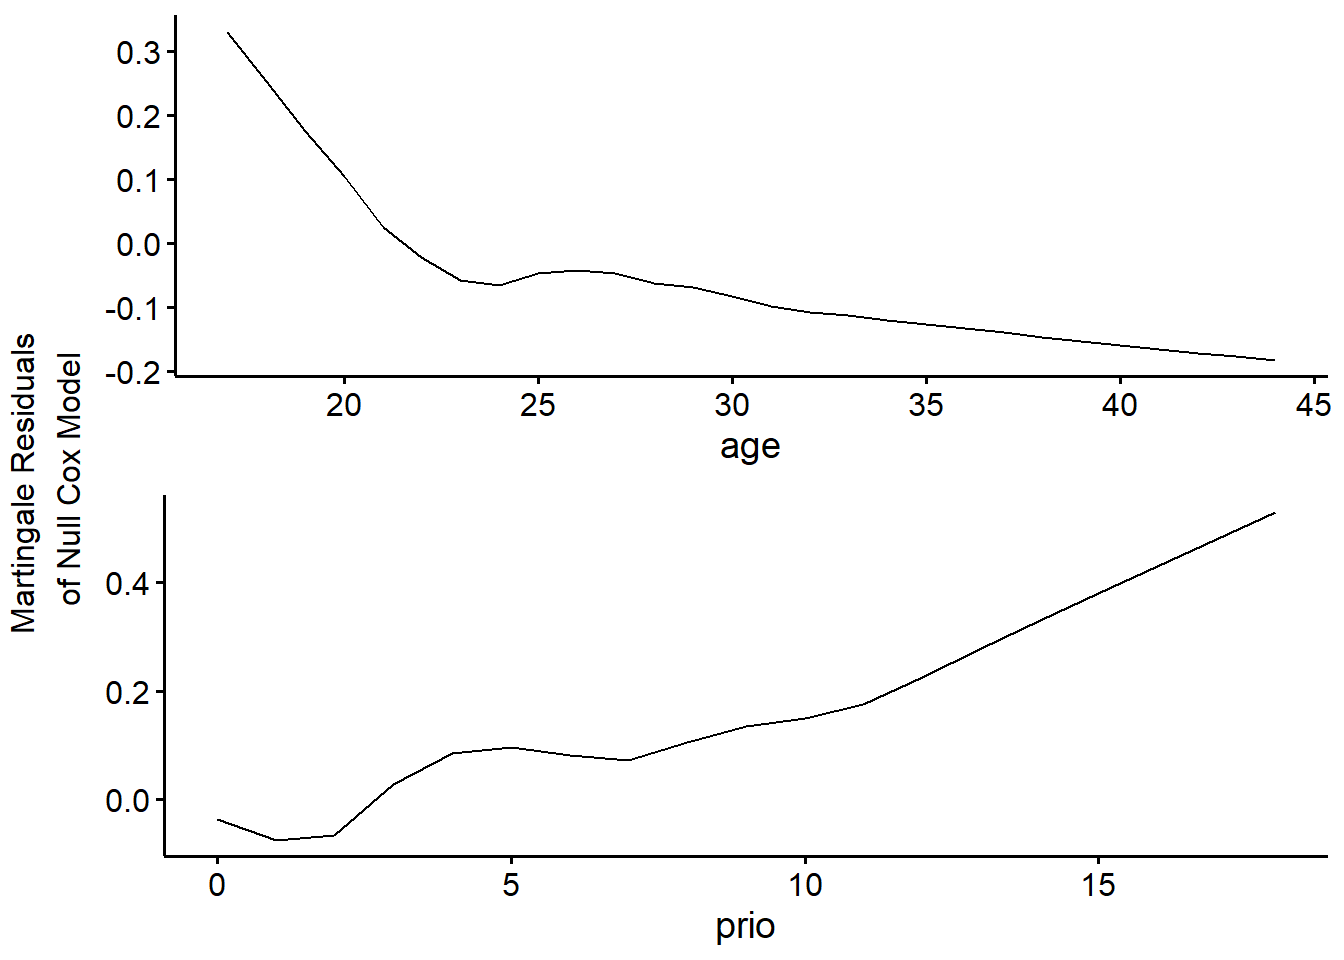
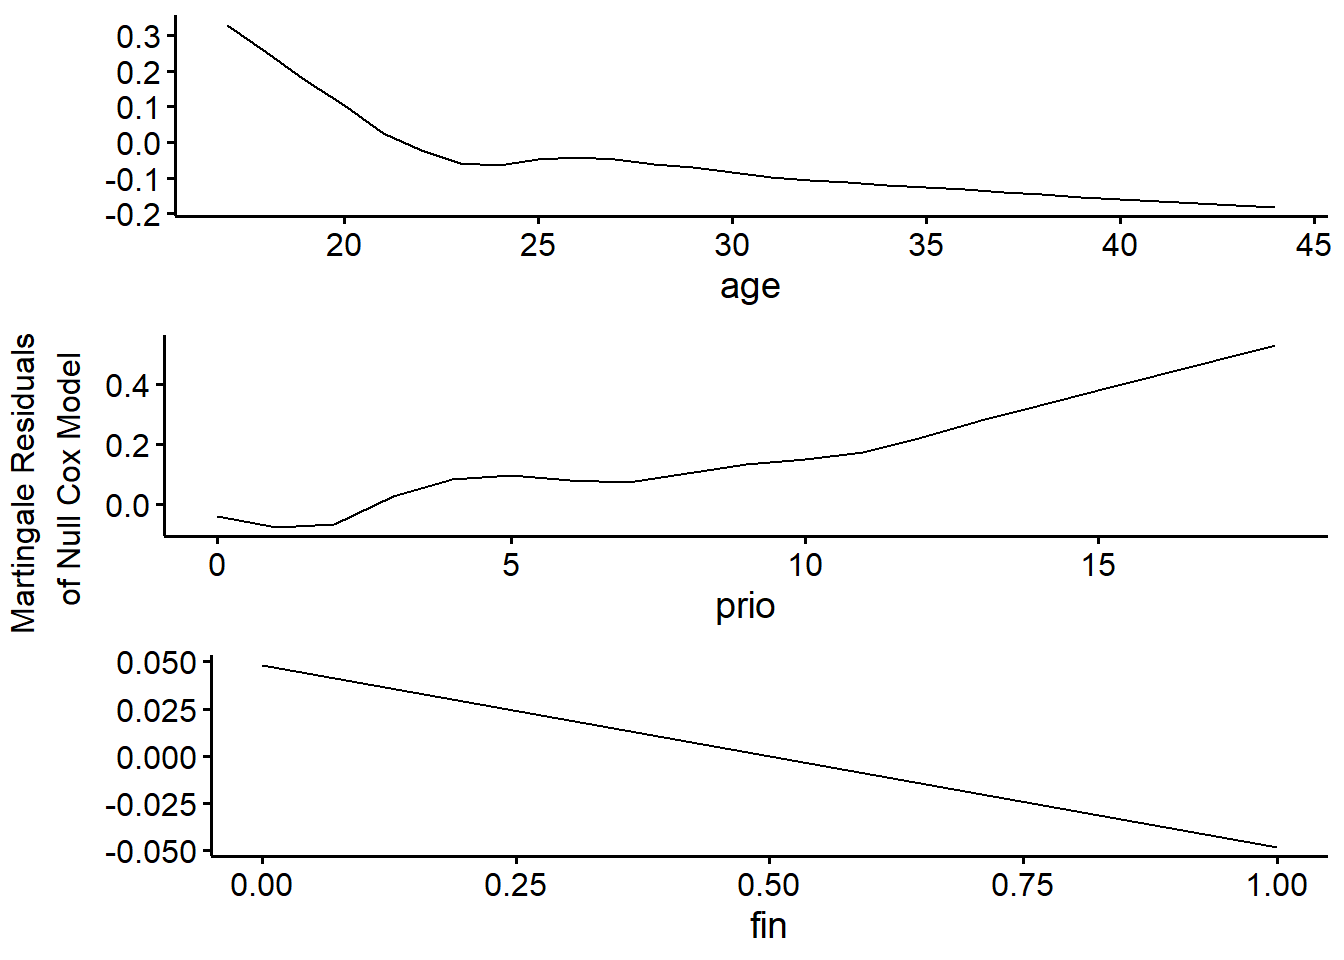
Updated Martingale residuals

diff --git a/docs/cox-survival-regression.html b/docs/cox-survival-regression.html
@@ -23,7 +23,7 @@
 <meta name="author" content="Susan Simmons" />
 
 
-<meta name="date" content="2024-10-23" />
+<meta name="date" content="2024-11-03" />
 
   <meta name="viewport" content="width=device-width, initial-scale=1" />
   <meta name="apple-mobile-web-app-capable" content="yes" />
@@ -536,7 +536,7 @@ code span.wa { color: #60a0b0; font-weight: bold; font-style: italic; } /* Warni
 ##    number of observations = 432
 ## number of events observed = 114
 ##    partial log-likelihood = -660.86
-##          time fit was run = 2024-10-23 14:02:14 UTC
+##          time fit was run = 2024-11-04 02:24:49 UTC
 ## 
 ## ---
 ##            coef exp(coef)  se(coef)  coef lower 95%  coef upper 95% exp(coef) lower 95% exp(coef) upper 95%
@@ -575,46 +575,33 @@ code span.wa { color: #60a0b0; font-weight: bold; font-style: italic; } /* Warni
 ## concordant discordant     tied.x     tied.y    tied.xy 
 ##      26736      15651        195        111          0</code></pre>
 <div class="sourceCode" id="cb29"><pre class="sourceCode r"><code class="sourceCode r"><span id="cb29-1"><a href="cox-survival-regression.html#cb29-1" tabindex="-1"></a><span class="do">## Martingale residuals...Linearity</span></span>
-<span id="cb29-2"><a href="cox-survival-regression.html#cb29-2" tabindex="-1"></a><span class="do">## ONLY fit continuous variables here!!</span></span>
-<span id="cb29-3"><a href="cox-survival-regression.html#cb29-3" tabindex="-1"></a>recid.lin <span class="ot">&lt;-</span> <span class="fu">coxph</span>(<span class="fu">Surv</span>(week, arrest) <span class="sc">~</span>  age <span class="sc">+</span> prio, <span class="at">data =</span> recid)</span>
+<span id="cb29-2"><a href="cox-survival-regression.html#cb29-2" tabindex="-1"></a></span>
+<span id="cb29-3"><a href="cox-survival-regression.html#cb29-3" tabindex="-1"></a>recid.lin <span class="ot">&lt;-</span> <span class="fu">coxph</span>(<span class="fu">Surv</span>(week, arrest) <span class="sc">~</span>  age <span class="sc">+</span> prio <span class="sc">+</span> fin, <span class="at">data =</span> recid)</span>
 <span id="cb29-4"><a href="cox-survival-regression.html#cb29-4" tabindex="-1"></a>survminer<span class="sc">::</span><span class="fu">ggcoxfunctional</span>(recid.lin,<span class="at">data=</span>recid)</span></code></pre></div>
 <p><img src="bookdownproj_files/figure-html/PH%20diagnostics-5.png" width="672" /></p>
 <div class="sourceCode" id="cb30"><pre class="sourceCode r"><code class="sourceCode r"><span id="cb30-1"><a href="cox-survival-regression.html#cb30-1" tabindex="-1"></a><span class="do">## Try transformations or can bin</span></span>
-<span id="cb30-2"><a href="cox-survival-regression.html#cb30-2" tabindex="-1"></a>recid.lin <span class="ot">&lt;-</span> <span class="fu">coxph</span>(<span class="fu">Surv</span>(week, arrest) <span class="sc">~</span>  <span class="fu">sqrt</span>(age) , <span class="at">data =</span> recid)</span>
-<span id="cb30-3"><a href="cox-survival-regression.html#cb30-3" tabindex="-1"></a>survminer<span class="sc">::</span><span class="fu">ggcoxfunctional</span>(recid.lin,<span class="at">data=</span>recid)</span></code></pre></div>
+<span id="cb30-2"><a href="cox-survival-regression.html#cb30-2" tabindex="-1"></a>recid1<span class="ot">&lt;-</span>recid <span class="sc">%&gt;%</span> <span class="fu">mutate</span>(<span class="at">agebin =</span> <span class="fu">case_when</span>(</span>
+<span id="cb30-3"><a href="cox-survival-regression.html#cb30-3" tabindex="-1"></a>  age <span class="sc">&lt;</span> <span class="dv">20</span> <span class="sc">~</span> <span class="dv">0</span>,</span>
+<span id="cb30-4"><a href="cox-survival-regression.html#cb30-4" tabindex="-1"></a>  age <span class="sc">&lt;</span> <span class="dv">30</span> <span class="sc">~</span> <span class="dv">1</span>,</span>
+<span id="cb30-5"><a href="cox-survival-regression.html#cb30-5" tabindex="-1"></a>  age <span class="sc">&gt;=</span> <span class="dv">30</span> <span class="sc">~</span><span class="dv">2</span>))</span>
+<span id="cb30-6"><a href="cox-survival-regression.html#cb30-6" tabindex="-1"></a></span>
+<span id="cb30-7"><a href="cox-survival-regression.html#cb30-7" tabindex="-1"></a>recid.ph1 <span class="ot">=</span> <span class="fu">coxph</span>(<span class="fu">Surv</span>(week, arrest) <span class="sc">~</span> fin <span class="sc">+</span> <span class="fu">factor</span>(agebin) <span class="sc">+</span> prio, <span class="at">data =</span> recid1)</span>
+<span id="cb30-8"><a href="cox-survival-regression.html#cb30-8" tabindex="-1"></a></span>
+<span id="cb30-9"><a href="cox-survival-regression.html#cb30-9" tabindex="-1"></a><span class="co"># Proportional Hazard Test - Schoenfeld Residuals </span></span>
+<span id="cb30-10"><a href="cox-survival-regression.html#cb30-10" tabindex="-1"></a>recid.ph.zph <span class="ot">&lt;-</span> <span class="fu">cox.zph</span>(recid.ph1)</span>
+<span id="cb30-11"><a href="cox-survival-regression.html#cb30-11" tabindex="-1"></a>recid.ph.zph</span></code></pre></div>
+<pre><code>##                chisq df    p
+## fin            0.066  1 0.80
+## factor(agebin) 3.399  2 0.18
+## prio           0.276  1 0.60
+## GLOBAL         3.880  4 0.42</code></pre>
+<div class="sourceCode" id="cb32"><pre class="sourceCode r"><code class="sourceCode r"><span id="cb32-1"><a href="cox-survival-regression.html#cb32-1" tabindex="-1"></a><span class="fu">ggcoxzph</span>(recid.ph.zph)</span></code></pre></div>
 <p><img src="bookdownproj_files/figure-html/PH%20diagnostics-6.png" width="672" /></p>
-<div class="sourceCode" id="cb31"><pre class="sourceCode r"><code class="sourceCode r"><span id="cb31-1"><a href="cox-survival-regression.html#cb31-1" tabindex="-1"></a><span class="co"># Proportional Hazard Test - Schoenfeld Residuals </span></span>
-<span id="cb31-2"><a href="cox-survival-regression.html#cb31-2" tabindex="-1"></a>recid.ph.zph <span class="ot">&lt;-</span> <span class="fu">cox.zph</span>(recid.ph, <span class="at">transform =</span> <span class="st">&quot;identity&quot;</span>)</span>
-<span id="cb31-3"><a href="cox-survival-regression.html#cb31-3" tabindex="-1"></a>recid.ph.zph</span></code></pre></div>
-<pre><code>##          chisq df      p
-## fin    0.00935  1 0.9230
-## age    6.99778  1 0.0082
-## prio   0.42359  1 0.5151
-## GLOBAL 7.70907  3 0.0524</code></pre>
-<div class="sourceCode" id="cb33"><pre class="sourceCode r"><code class="sourceCode r"><span id="cb33-1"><a href="cox-survival-regression.html#cb33-1" tabindex="-1"></a><span class="fu">ggcoxzph</span>(recid.ph.zph)</span></code></pre></div>
-<p><img src="bookdownproj_files/figure-html/PH%20diagnostics-7.png" width="672" /></p>
-<div class="sourceCode" id="cb34"><pre class="sourceCode r"><code class="sourceCode r"><span id="cb34-1"><a href="cox-survival-regression.html#cb34-1" tabindex="-1"></a><span class="co"># Can try transformations..</span></span>
-<span id="cb34-2"><a href="cox-survival-regression.html#cb34-2" tabindex="-1"></a></span>
-<span id="cb34-3"><a href="cox-survival-regression.html#cb34-3" tabindex="-1"></a>recid.ph.zph3 <span class="ot">=</span> <span class="fu">cox.zph</span>(recid.ph, <span class="at">transform =</span> <span class="st">&quot;identity&quot;</span>)</span>
-<span id="cb34-4"><a href="cox-survival-regression.html#cb34-4" tabindex="-1"></a>recid.ph.zph3</span></code></pre></div>
-<pre><code>##          chisq df      p
-## fin    0.00935  1 0.9230
-## age    6.99778  1 0.0082
-## prio   0.42359  1 0.5151
-## GLOBAL 7.70907  3 0.0524</code></pre>
-<div class="sourceCode" id="cb36"><pre class="sourceCode r"><code class="sourceCode r"><span id="cb36-1"><a href="cox-survival-regression.html#cb36-1" tabindex="-1"></a>recid.ph.zph4 <span class="ot">=</span> <span class="fu">cox.zph</span>(recid.ph, <span class="at">transform =</span> <span class="st">&quot;log&quot;</span>)</span>
-<span id="cb36-2"><a href="cox-survival-regression.html#cb36-2" tabindex="-1"></a>recid.ph.zph4</span></code></pre></div>
-<pre><code>##         chisq df      p
-## fin    0.1415  1 0.7068
-## age    8.6827  1 0.0032
-## prio   0.0131  1 0.9089
-## GLOBAL 8.9965  3 0.0293</code></pre>
-<p>If we believe that the PH assumption is not true for one (or more) variables, then we can explore what type of relationship is the best (with respect to time). Options are “identity”, “log” and “KM” (although identity and log are the most commonly used). The first part of the code below illustrates how to fit the time-dependent coefficients.</p>
-<p>The second part of the R code below illustrates how to fit time-varying variables (variables that change their values throughout time).</p>
-<div class="sourceCode" id="cb38"><pre class="sourceCode r"><code class="sourceCode r"><span id="cb38-1"><a href="cox-survival-regression.html#cb38-1" tabindex="-1"></a><span class="co"># Time-Dependent Coefficients #</span></span>
-<span id="cb38-2"><a href="cox-survival-regression.html#cb38-2" tabindex="-1"></a>recid.ph.tdc <span class="ot">&lt;-</span> <span class="fu">coxph</span>(<span class="fu">Surv</span>(week, arrest) <span class="sc">~</span> fin <span class="sc">+</span>  wexp <span class="sc">+</span> mar <span class="sc">+</span> paro <span class="sc">+</span> prio<span class="sc">+</span> age <span class="sc">+</span> <span class="fu">tt</span>(age), <span class="at">data =</span> recid,</span>
-<span id="cb38-3"><a href="cox-survival-regression.html#cb38-3" tabindex="-1"></a>                 <span class="at">tt =</span> <span class="cf">function</span>(x, time, ...){x<span class="sc">*</span><span class="fu">log</span>(time)})</span>
-<span id="cb38-4"><a href="cox-survival-regression.html#cb38-4" tabindex="-1"></a><span class="fu">summary</span>(recid.ph.tdc)</span></code></pre></div>
+<p>To fit time dependent coefficients:</p>
+<div class="sourceCode" id="cb33"><pre class="sourceCode r"><code class="sourceCode r"><span id="cb33-1"><a href="cox-survival-regression.html#cb33-1" tabindex="-1"></a><span class="co"># Time-Dependent Coefficients #</span></span>
+<span id="cb33-2"><a href="cox-survival-regression.html#cb33-2" tabindex="-1"></a>recid.ph.tdc <span class="ot">&lt;-</span> <span class="fu">coxph</span>(<span class="fu">Surv</span>(week, arrest) <span class="sc">~</span> fin <span class="sc">+</span>  wexp <span class="sc">+</span> mar <span class="sc">+</span> paro <span class="sc">+</span> prio<span class="sc">+</span> age <span class="sc">+</span> <span class="fu">tt</span>(age), <span class="at">data =</span> recid,</span>
+<span id="cb33-3"><a href="cox-survival-regression.html#cb33-3" tabindex="-1"></a>                 <span class="at">tt =</span> <span class="cf">function</span>(x, time, ...){x<span class="sc">*</span><span class="fu">log</span>(time)})</span>
+<span id="cb33-4"><a href="cox-survival-regression.html#cb33-4" tabindex="-1"></a><span class="fu">summary</span>(recid.ph.tdc)</span></code></pre></div>
 <pre><code>## Call:
 ## coxph(formula = Surv(week, arrest) ~ fin + wexp + mar + paro + 
 ##     prio + age + tt(age), data = recid, tt = function(x, time, 
@@ -648,9 +635,9 @@ code span.wa { color: #60a0b0; font-weight: bold; font-style: italic; } /* Warni
 ## Likelihood ratio test= 38.72  on 7 df,   p=2e-06
 ## Wald test            = 35.09  on 7 df,   p=1e-05
 ## Score (logrank) test = 36.97  on 7 df,   p=5e-06</code></pre>
-<div class="sourceCode" id="cb40"><pre class="sourceCode r"><code class="sourceCode r"><span id="cb40-1"><a href="cox-survival-regression.html#cb40-1" tabindex="-1"></a>recid.ph.tdc <span class="ot">&lt;-</span> <span class="fu">coxph</span>(<span class="fu">Surv</span>(week, arrest) <span class="sc">~</span>  fin <span class="sc">+</span> prio <span class="sc">+</span>  age <span class="sc">+</span> <span class="fu">tt</span>(age), <span class="at">data =</span> recid,</span>
-<span id="cb40-2"><a href="cox-survival-regression.html#cb40-2" tabindex="-1"></a>        <span class="at">tt =</span> <span class="cf">function</span>(x, time, ...){x<span class="sc">*</span><span class="fu">log</span>(time)})</span>
-<span id="cb40-3"><a href="cox-survival-regression.html#cb40-3" tabindex="-1"></a><span class="fu">summary</span>(recid.ph.tdc)</span></code></pre></div>
+<div class="sourceCode" id="cb35"><pre class="sourceCode r"><code class="sourceCode r"><span id="cb35-1"><a href="cox-survival-regression.html#cb35-1" tabindex="-1"></a>recid.ph.tdc <span class="ot">&lt;-</span> <span class="fu">coxph</span>(<span class="fu">Surv</span>(week, arrest) <span class="sc">~</span>  fin <span class="sc">+</span> prio <span class="sc">+</span>  age <span class="sc">+</span> <span class="fu">tt</span>(age), <span class="at">data =</span> recid,</span>
+<span id="cb35-2"><a href="cox-survival-regression.html#cb35-2" tabindex="-1"></a>        <span class="at">tt =</span> <span class="cf">function</span>(x, time, ...){x<span class="sc">*</span><span class="fu">log</span>(time)})</span>
+<span id="cb35-3"><a href="cox-survival-regression.html#cb35-3" tabindex="-1"></a><span class="fu">summary</span>(recid.ph.tdc)</span></code></pre></div>
 <pre><code>## Call:
 ## coxph(formula = Surv(week, arrest) ~ fin + prio + age + tt(age), 
 ##     data = recid, tt = function(x, time, ...) {
@@ -678,9 +665,9 @@ code span.wa { color: #60a0b0; font-weight: bold; font-style: italic; } /* Warni
 ## Wald test            = 32.41  on 4 df,   p=2e-06
 ## Score (logrank) test = 33.75  on 4 df,   p=8e-07</code></pre>
 <p>The following code is for time-varying variables (values of the variable that change over time). Notice that we are using a different data set (needs to be structured differently).</p>
-<div class="sourceCode" id="cb42"><pre class="sourceCode r"><code class="sourceCode r"><span id="cb42-1"><a href="cox-survival-regression.html#cb42-1" tabindex="-1"></a><span class="co"># Time Varying Variables #</span></span>
-<span id="cb42-2"><a href="cox-survival-regression.html#cb42-2" tabindex="-1"></a>recid_long.ph <span class="ot">&lt;-</span> <span class="fu">coxph</span>(<span class="fu">Surv</span>(start, stop, arrested) <span class="sc">~</span> fin <span class="sc">+</span> age <span class="sc">+</span> prio <span class="sc">+</span> employed, <span class="at">data =</span> recid_long)</span>
-<span id="cb42-3"><a href="cox-survival-regression.html#cb42-3" tabindex="-1"></a><span class="fu">summary</span>(recid_long.ph)</span></code></pre></div>
+<div class="sourceCode" id="cb37"><pre class="sourceCode r"><code class="sourceCode r"><span id="cb37-1"><a href="cox-survival-regression.html#cb37-1" tabindex="-1"></a><span class="co"># Time Varying Variables #</span></span>
+<span id="cb37-2"><a href="cox-survival-regression.html#cb37-2" tabindex="-1"></a>recid_long.ph <span class="ot">&lt;-</span> <span class="fu">coxph</span>(<span class="fu">Surv</span>(start, stop, arrested) <span class="sc">~</span> fin <span class="sc">+</span> age <span class="sc">+</span> prio <span class="sc">+</span> employed, <span class="at">data =</span> recid_long)</span>
+<span id="cb37-3"><a href="cox-survival-regression.html#cb37-3" tabindex="-1"></a><span class="fu">summary</span>(recid_long.ph)</span></code></pre></div>
 <pre><code>## Call:
 ## coxph(formula = Surv(start, stop, arrested) ~ fin + age + prio + 
 ##     employed, data = recid_long)
@@ -705,8 +692,8 @@ code span.wa { color: #60a0b0; font-weight: bold; font-style: italic; } /* Warni
 ## Likelihood ratio test= 66.19  on 4 df,   p=1e-13
 ## Wald test            = 53.93  on 4 df,   p=5e-11
 ## Score (logrank) test = 62.05  on 4 df,   p=1e-12</code></pre>
-<div class="sourceCode" id="cb44"><pre class="sourceCode r"><code class="sourceCode r"><span id="cb44-1"><a href="cox-survival-regression.html#cb44-1" tabindex="-1"></a>recid_lag.ph <span class="ot">&lt;-</span> <span class="fu">coxph</span>(<span class="fu">Surv</span>(start, stop, arrested) <span class="sc">~</span> fin <span class="sc">+</span> age <span class="sc">+</span>  prio <span class="sc">+</span> employed, <span class="at">data =</span> recid_lag)</span>
-<span id="cb44-2"><a href="cox-survival-regression.html#cb44-2" tabindex="-1"></a><span class="fu">summary</span>(recid_lag.ph)</span></code></pre></div>
+<div class="sourceCode" id="cb39"><pre class="sourceCode r"><code class="sourceCode r"><span id="cb39-1"><a href="cox-survival-regression.html#cb39-1" tabindex="-1"></a>recid_lag.ph <span class="ot">&lt;-</span> <span class="fu">coxph</span>(<span class="fu">Surv</span>(start, stop, arrested) <span class="sc">~</span> fin <span class="sc">+</span> age <span class="sc">+</span>  prio <span class="sc">+</span> employed, <span class="at">data =</span> recid_lag)</span>
+<span id="cb39-2"><a href="cox-survival-regression.html#cb39-2" tabindex="-1"></a><span class="fu">summary</span>(recid_lag.ph)</span></code></pre></div>
 <pre><code>## Call:
 ## coxph(formula = Surv(start, stop, arrested) ~ fin + age + prio + 
 ##     employed, data = recid_lag)
@@ -734,7 +721,7 @@ code span.wa { color: #60a0b0; font-weight: bold; font-style: italic; } /* Warni
 <div id="python-for-diagnostics" class="section level3 hasAnchor" number="4.1.1">
 <h3><span class="header-section-number">4.1.1</span> Python for Diagnostics<a href="cox-survival-regression.html#python-for-diagnostics" class="anchor-section" aria-label="Anchor link to header"></a></h3>
 <p>For testing proportional hazard assumption:</p>
-<div class="sourceCode" id="cb46"><pre class="sourceCode python"><code class="sourceCode python"><span id="cb46-1"><a href="cox-survival-regression.html#cb46-1" tabindex="-1"></a>cph.check_assumptions(recid_ph, p_value_threshold <span class="op">=</span> <span class="fl">0.05</span>)</span></code></pre></div>
+<div class="sourceCode" id="cb41"><pre class="sourceCode python"><code class="sourceCode python"><span id="cb41-1"><a href="cox-survival-regression.html#cb41-1" tabindex="-1"></a>cph.check_assumptions(recid_ph, p_value_threshold <span class="op">=</span> <span class="fl">0.05</span>)</span></code></pre></div>
 <pre><code>## The ``p_value_threshold`` is set at 0.05. Even under the null hypothesis of no violations, some
 ## covariates will be below the threshold by chance. This is compounded when there are many covariates.
 ## Similarly, when there are lots of observations, even minor deviances from the proportional hazard
@@ -782,12 +769,12 @@ code span.wa { color: #60a0b0; font-weight: bold; font-style: italic; } /* Warni
 ## 
 ## []</code></pre>
 <p>Python cannot program time-varying coefficients. However, it is capable of doing time-varying variables:</p>
-<div class="sourceCode" id="cb48"><pre class="sourceCode python"><code class="sourceCode python"><span id="cb48-1"><a href="cox-survival-regression.html#cb48-1" tabindex="-1"></a><span class="im">from</span> lifelines <span class="im">import</span> CoxTimeVaryingFitter</span>
-<span id="cb48-2"><a href="cox-survival-regression.html#cb48-2" tabindex="-1"></a></span>
-<span id="cb48-3"><a href="cox-survival-regression.html#cb48-3" tabindex="-1"></a>recid_1<span class="op">=</span>r.recid_long</span>
-<span id="cb48-4"><a href="cox-survival-regression.html#cb48-4" tabindex="-1"></a>recid_long<span class="op">=</span>recid_1[[<span class="st">&#39;fin&#39;</span>, <span class="st">&#39;age&#39;</span>, <span class="st">&#39;prio&#39;</span>, <span class="st">&#39;employed&#39;</span>,<span class="st">&#39;start&#39;</span>,<span class="st">&#39;stop&#39;</span>,<span class="st">&#39;subj&#39;</span>,<span class="st">&#39;arrested&#39;</span>]]</span>
-<span id="cb48-5"><a href="cox-survival-regression.html#cb48-5" tabindex="-1"></a>ctv <span class="op">=</span> CoxTimeVaryingFitter()</span>
-<span id="cb48-6"><a href="cox-survival-regression.html#cb48-6" tabindex="-1"></a>ctv.fit(recid_long, id_col<span class="op">=</span><span class="st">&quot;subj&quot;</span>, event_col<span class="op">=</span><span class="st">&quot;arrested&quot;</span>, start_col<span class="op">=</span><span class="st">&quot;start&quot;</span>, stop_col<span class="op">=</span><span class="st">&quot;stop&quot;</span>, show_progress<span class="op">=</span><span class="va">True</span>)</span></code></pre></div>
+<div class="sourceCode" id="cb43"><pre class="sourceCode python"><code class="sourceCode python"><span id="cb43-1"><a href="cox-survival-regression.html#cb43-1" tabindex="-1"></a><span class="im">from</span> lifelines <span class="im">import</span> CoxTimeVaryingFitter</span>
+<span id="cb43-2"><a href="cox-survival-regression.html#cb43-2" tabindex="-1"></a></span>
+<span id="cb43-3"><a href="cox-survival-regression.html#cb43-3" tabindex="-1"></a>recid_1<span class="op">=</span>r.recid_long</span>
+<span id="cb43-4"><a href="cox-survival-regression.html#cb43-4" tabindex="-1"></a>recid_long<span class="op">=</span>recid_1[[<span class="st">&#39;fin&#39;</span>, <span class="st">&#39;age&#39;</span>, <span class="st">&#39;prio&#39;</span>, <span class="st">&#39;employed&#39;</span>,<span class="st">&#39;start&#39;</span>,<span class="st">&#39;stop&#39;</span>,<span class="st">&#39;subj&#39;</span>,<span class="st">&#39;arrested&#39;</span>]]</span>
+<span id="cb43-5"><a href="cox-survival-regression.html#cb43-5" tabindex="-1"></a>ctv <span class="op">=</span> CoxTimeVaryingFitter()</span>
+<span id="cb43-6"><a href="cox-survival-regression.html#cb43-6" tabindex="-1"></a>ctv.fit(recid_long, id_col<span class="op">=</span><span class="st">&quot;subj&quot;</span>, event_col<span class="op">=</span><span class="st">&quot;arrested&quot;</span>, start_col<span class="op">=</span><span class="st">&quot;start&quot;</span>, stop_col<span class="op">=</span><span class="st">&quot;stop&quot;</span>, show_progress<span class="op">=</span><span class="va">True</span>)</span></code></pre></div>
 <pre><code>## Iteration 1: norm_delta = 6.45e-01, step_size = 0.9500, log_lik = -675.38063, newton_decrement = 3.10e+01, seconds_since_start = 0.0
 ## Iteration 2: norm_delta = 1.68e-01, step_size = 0.9500, log_lik = -643.80170, newton_decrement = 1.44e+00, seconds_since_start = 0.0
 ## Iteration 3: norm_delta = 2.27e-02, step_size = 0.9500, log_lik = -642.30569, newton_decrement = 2.16e-02, seconds_since_start = 0.0
@@ -795,14 +782,14 @@ code span.wa { color: #60a0b0; font-weight: bold; font-style: italic; } /* Warni
 ## Iteration 5: norm_delta = 1.14e-06, step_size = 1.0000, log_lik = -642.28389, newton_decrement = 4.71e-11, seconds_since_start = 0.0
 ## Convergence completed after 5 iterations.
 ## &lt;lifelines.CoxTimeVaryingFitter: fitted with 19809 periods, 432 subjects, 114 events&gt;</code></pre>
-<div class="sourceCode" id="cb50"><pre class="sourceCode python"><code class="sourceCode python"><span id="cb50-1"><a href="cox-survival-regression.html#cb50-1" tabindex="-1"></a>ctv.print_summary()</span></code></pre></div>
+<div class="sourceCode" id="cb45"><pre class="sourceCode python"><code class="sourceCode python"><span id="cb45-1"><a href="cox-survival-regression.html#cb45-1" tabindex="-1"></a>ctv.print_summary()</span></code></pre></div>
 <pre><code>## &lt;lifelines.CoxTimeVaryingFitter: fitted with 19809 periods, 432 subjects, 114 events&gt;
 ##          event col = &#39;arrested&#39;
 ## number of subjects = 432
 ##  number of periods = 19809
 ##   number of events = 114
 ## partial log-likelihood = -642.28
-##   time fit was run = 2024-10-23 14:02:16 UTC
+##   time fit was run = 2024-11-04 02:24:51 UTC
 ## 
 ## ---
 ##            coef exp(coef)  se(coef)  coef lower 95%  coef upper 95% exp(coef) lower 95% exp(coef) upper 95%
